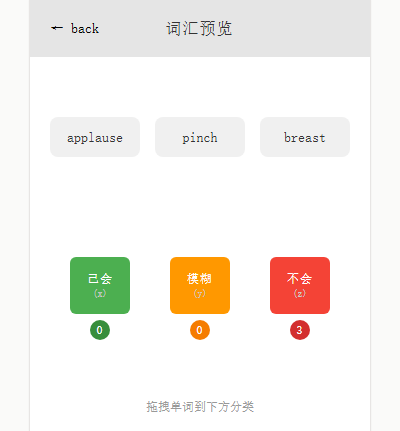
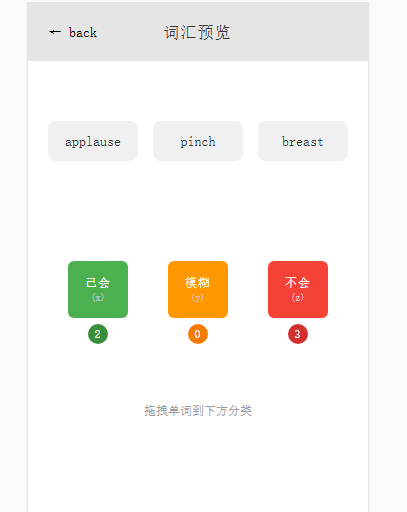
fix: move DraggableWordCard to top-level, add ScrollView

diff --git a/client/screens/word-preview/index.tsx b/client/screens/word-preview/index.tsx
@@ -1,5 +1,5 @@
-import { useState, useCallback, useRef } from 'react';
-import { View, Text, StyleSheet, Animated, PanResponder, Dimensions, Alert } from 'react-native';
+import { useState, useCallback, useRef, memo } from 'react';
+import { View, Text, StyleSheet, Animated, PanResponder, Dimensions, Alert, ScrollView } from 'react-native';
 import { Screen } from '@/components/Screen';
 import { Ionicons } from '@expo/vector-icons';
 import { useFocusEffect } from 'expo-router';
@@ -14,10 +14,86 @@ interface Word {
 
 const { width: screenWidth, height: screenHeight } = Dimensions.get('window');
 
+interface DraggableWordCardProps {
+	word: Word;
+	onMoveComplete: (word: Word, targetTable: string) => void;
+}
+
+// 可拖动单词卡片组件（定义在文件顶层，符合 Hooks 规则）
+const DraggableWordCard = memo(function DraggableWordCard({ word, onMoveComplete }: DraggableWordCardProps) {
+	const pan = useRef(new Animated.ValueXY()).current;
+
+	const panResponder = useRef(
+		PanResponder.create({
+			onStartShouldSetPanResponder: () => true,
+			onMoveShouldSetPanResponder: () => true,
+			onPanResponderGrant: () => {
+				pan.setOffset({
+					x: (pan.x as any)._value || 0,
+					y: (pan.y as any)._value || 0,
+				});
+				pan.setValue({ x: 0, y: 0 });
+			},
+			onPanResponderMove: Animated.event(
+				[null, { dx: pan.x, dy: pan.y }],
+				{ useNativeDriver: false }
+			),
+			onPanResponderRelease: (evt, gestureState) => {
+				pan.flattenOffset();
+
+				// 计算卡片在屏幕上的绝对位置
+				const cardX = gestureState.moveX;
+				const cardY = gestureState.moveY;
+
+				// 检测放置位置
+				const dropZoneTop = screenHeight - 180;
+				if (cardY > dropZoneTop) {
+					const zoneWidth = screenWidth / 3;
+					let targetTable = 'words_z';
+					if (cardX < zoneWidth) {
+						targetTable = 'words_x';
+					} else if (cardX < zoneWidth * 2) {
+						targetTable = 'words_y';
+					}
+					onMoveComplete(word, targetTable);
+				}
+
+				// 回到原位
+				Animated.spring(pan, {
+					toValue: { x: 0, y: 0 },
+					useNativeDriver: false,
+				}).start();
+			},
+		})
+	).current;
+
+	return (
+		<Animated.View
+			{...panResponder.panHandlers}
+			style={[
+				styles.wordCard,
+				{
+					transform: [
+						{ translateX: pan.x },
+						{ translateY: pan.y },
+					],
+				},
+			]}
+		>
+			<Text style={styles.wordText}>{word.word}</Text>
+			<Text style={styles.phoneticText}>{word.phonetic}</Text>
+			<Text style={styles.meaningText} numberOfLines={2}>{word.meaning}</Text>
+			<View style={styles.dragHint}>
+				<Ionicons name="move-outline" size={14} color="#999" />
+				<Text style={styles.dragHintText}>拖动分类</Text>
+			</View>
+		</Animated.View>
+	);
+});
+
 export default function WordPreviewPage() {
 	const [words, setWords] = useState<Word[]>([]);
 	const [categoryCounts, setCategoryCounts] = useState({ x: 0, y: 0, z: 0 });
-	const fetchCategoryCountsRef = useRef<() => void>(() => {});
 
 	// 获取词汇列表
 	const fetchWords = useCallback(async () => {
@@ -51,9 +127,6 @@ export default function WordPreviewPage() {
 		}
 	}, []);
 
-	// 保存引用供拖拽完成后调用
-	fetchCategoryCountsRef.current = fetchCategoryCounts;
-
 	// 页面加载时获取数据
 	useFocusEffect(
 		useCallback(() => {
@@ -63,7 +136,7 @@ export default function WordPreviewPage() {
 	);
 
 	// 移动单词到分类
-	const moveWord = useCallback(async (word: Word, targetTable: string) => {
+	const handleMoveComplete = useCallback(async (word: Word, targetTable: string) => {
 		try {
 			const response = await fetch(`${API_BASE_URL}/api/v1/user-words/move`, {
 				method: 'POST',
@@ -84,97 +157,14 @@ export default function WordPreviewPage() {
 			setWords(prev => prev.filter(w => w.id !== word.id));
 			
 			// 更新分类数量
-			fetchCategoryCountsRef.current();
+			fetchCategoryCounts();
 
 		} catch (error) {
 			console.error('Failed to move word:', error);
 			Alert.alert('错误', '移动失败，请重试');
+			fetchWords(); // 重新获取列表
 		}
-	}, []);
-
-	// 检测放置位置
-	const getDropZone = (absX: number, absY: number): string | null => {
-		const dropZoneTop = screenHeight - 180; // 底部区域起始位置
-		if (absY > dropZoneTop) {
-			const zoneWidth = screenWidth / 3;
-			if (absX < zoneWidth) {
-				return 'words_x';
-			} else if (absX < zoneWidth * 2) {
-				return 'words_y';
-			} else {
-				return 'words_z';
-			}
-		}
-		return null;
-	};
-
-	// 创建可拖动的单词卡片
-	const DraggableWordCard = ({ word }: { word: Word }) => {
-		const pan = useRef(new Animated.ValueXY()).current;
-		const originalY = useRef(0);
-
-		const panResponder = useRef(
-			PanResponder.create({
-				onStartShouldSetPanResponder: () => true,
-				onMoveShouldSetPanResponder: () => true,
-				onPanResponderGrant: () => {
-					originalY.current = (pan.y as any)._value || 0;
-					pan.setOffset({
-						x: (pan.x as any)._value || 0,
-						y: originalY.current,
-					});
-					pan.setValue({ x: 0, y: 0 });
-				},
-				onPanResponderMove: Animated.event(
-					[null, { dx: pan.x, dy: pan.y }],
-					{ useNativeDriver: false }
-				),
-				onPanResponderRelease: (evt, gestureState) => {
-					pan.flattenOffset();
-
-					// 计算卡片在屏幕上的绝对位置
-					const cardX = gestureState.moveX;
-					const cardY = gestureState.moveY;
-
-					// 检测放置位置
-					const targetTable = getDropZone(cardX, cardY);
-					if (targetTable) {
-						// 直接移动，不等待动画
-						moveWord(word, targetTable);
-					}
-
-					// 回到原位
-					Animated.spring(pan, {
-						toValue: { x: 0, y: 0 },
-						useNativeDriver: false,
-					}).start();
-				},
-			})
-		).current;
-
-		return (
-			<Animated.View
-				{...panResponder.panHandlers}
-				style={[
-					styles.wordCard,
-					{
-						transform: [
-							{ translateX: pan.x },
-							{ translateY: pan.y },
-						],
-					},
-				]}
-			>
-				<Text style={styles.wordText}>{word.word}</Text>
-				<Text style={styles.phoneticText}>{word.phonetic}</Text>
-				<Text style={styles.meaningText} numberOfLines={2}>{word.meaning}</Text>
-				<View style={styles.dragHint}>
-					<Ionicons name="move-outline" size={14} color="#999" />
-					<Text style={styles.dragHintText}>拖动分类</Text>
-				</View>
-			</Animated.View>
-		);
-	};
+	}, [fetchCategoryCounts, fetchWords]);
 
 	return (
 		<Screen>
@@ -186,16 +176,26 @@ export default function WordPreviewPage() {
 				</View>
 
 				{/* Word Cards */}
-				<View style={styles.cardsContainer}>
+				<ScrollView 
+					style={styles.scrollContainer}
+					contentContainerStyle={styles.scrollContent}
+					showsVerticalScrollIndicator={false}
+				>
 					{words.map((word) => (
-						<DraggableWordCard key={word.id} word={word} />
+						<DraggableWordCard 
+							key={word.id} 
+							word={word} 
+							onMoveComplete={handleMoveComplete}
+						/>
 					))}
 					{words.length === 0 && (
 						<View style={styles.emptyContainer}>
 							<Text style={styles.emptyText}>所有单词已分类完成！</Text>
 						</View>
 					)}
-				</View>
+					{/* 底部留白，确保最后一个卡片不会被分类栏遮挡 */}
+					<View style={styles.bottomSpacer} />
+				</ScrollView>
 
 				{/* Drop Zones */}
 				<View style={styles.categorySection}>
@@ -244,8 +244,10 @@ const styles = StyleSheet.create({
 		marginTop: 4,
 		fontFamily: 'serif',
 	},
-	cardsContainer: {
+	scrollContainer: {
 		flex: 1,
+	},
+	scrollContent: {
 		padding: 16,
 		paddingBottom: 180,
 	},
@@ -299,6 +301,9 @@ const styles = StyleSheet.create({
 	emptyText: {
 		fontSize: 16,
 		color: '#999999',
+	},
+	bottomSpacer: {
+		height: 20,
 	},
 	categorySection: {
 		position: 'absolute',
